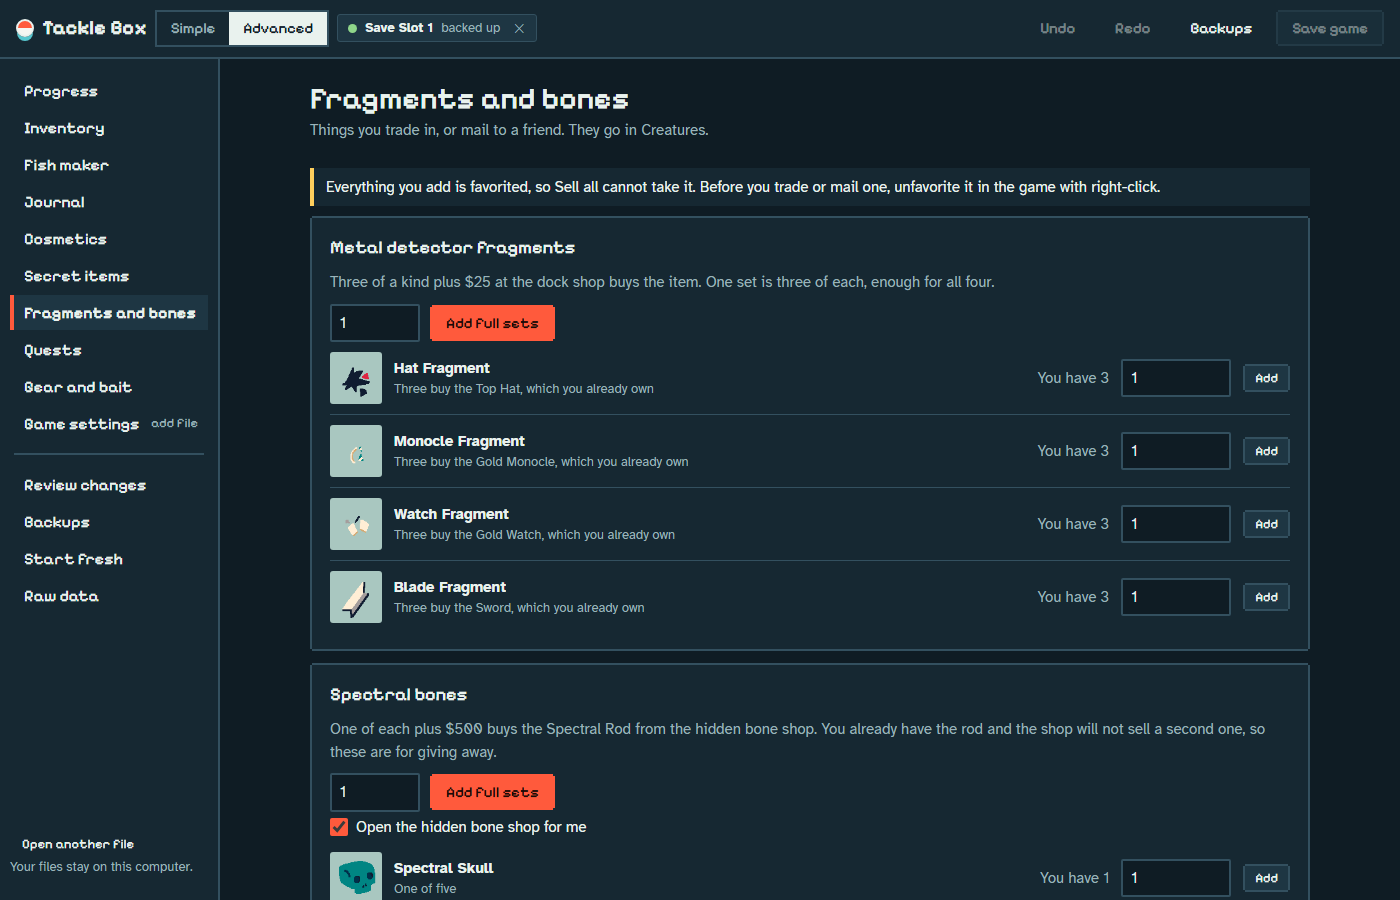
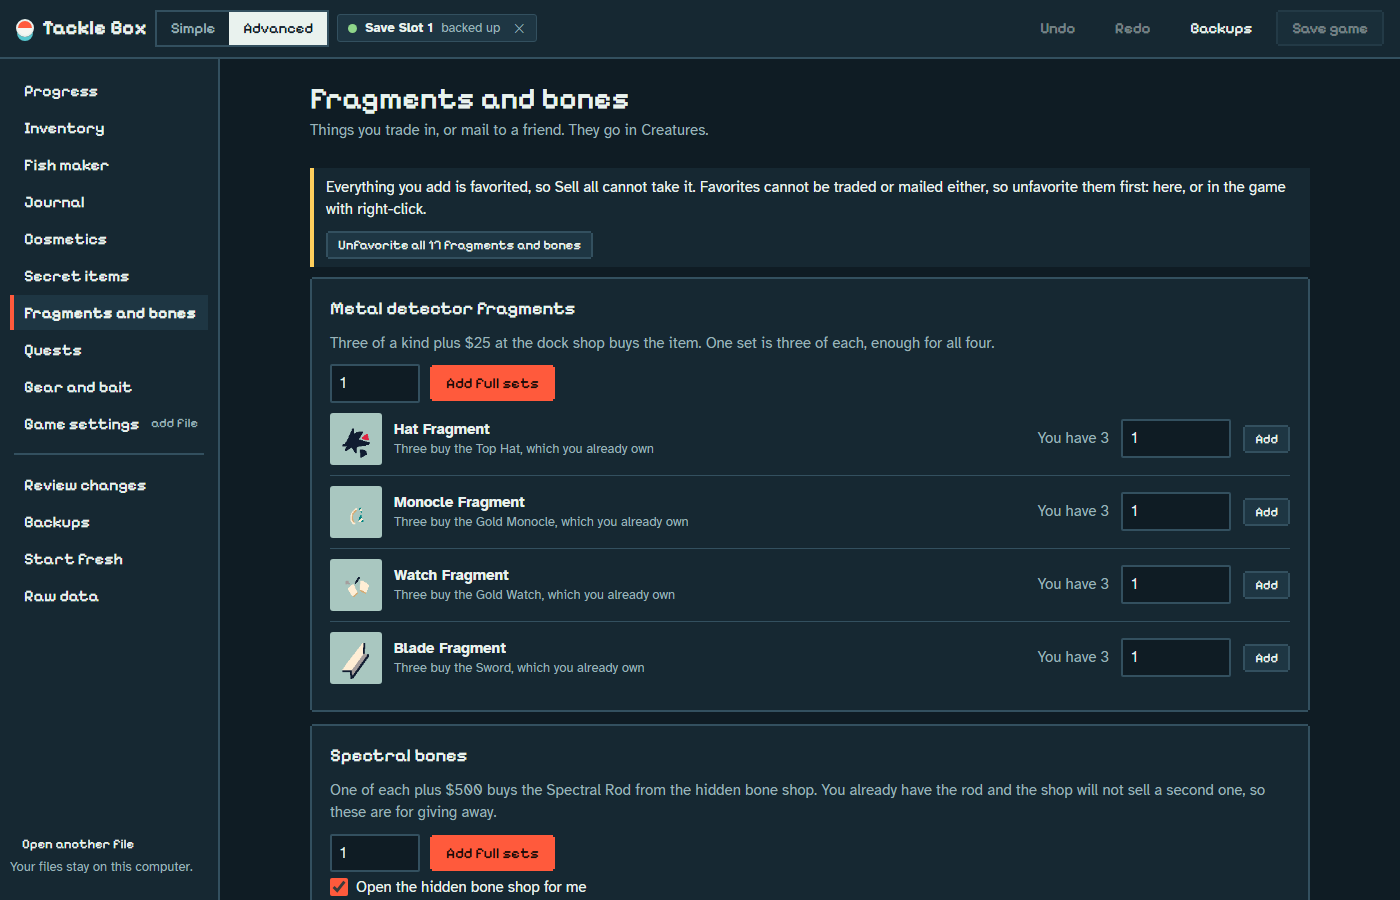
Add unfavorite buttons for one item, a selection, and fragments and bones

diff --git a/js/views/inventory.js b/js/views/inventory.js
@@ -10,7 +10,7 @@ function InventoryView() {
   const st = S.inv, root = f.root;
   const host = h('div', { class: 'gridhost' }), detail = h('aside', { class: 'detail px', 'aria-live': 'polite' }), bulk = h('div'), hot = h('div', { class: 'hotbar' }), counter = h('span', { class: 'muted small' });
   const edit = (label, fn, opts) => { commit(fk, label, fn, { render: false, ...opts }); drawAll(); };
-  const drawAll = () => { drawHot(); drawBulk(); drawGrid(); drawDetail(); };
+  const drawAll = () => { favs = favoriteSet(root); drawHot(); drawBulk(); drawGrid(); drawDetail(); };
 
   let favs = new Set();
   const list = () => tabItems(root, st.tab);
@@ -132,8 +132,8 @@ function InventoryView() {
     addKids(bulk, h('div', { class: 'bulk px' }, h('b', null, refs.length + ' selected'),
       !fishTab ? null : rarityPills(-1, (i) => edit('Set rarity', () => refs.forEach(r => { const n = findByRef(r); if (n) setNum(get(n, 'quality'), i); })), false),
       button('Move to front', () => move(refs, 0), 'small'), button('Move to end', () => move(refs, list().length), 'small'),
-      button('Favorite', () => edit('Favorite items', () => setFavorites(root, refs)), 'small'),
-      button('Select all shown', () => { shown().forEach(n => st.sel.add(refOf(n))); drawBulk(); drawGrid(); }, 'small'),
+      refs.some(r => !favs.has(r)) ? button('Favorite', () => edit('Favorite items', () => setFavorites(root, refs)), 'small') : null,
+      refs.some(r => favs.has(r)) ? button('Unfavorite', () => edit('Unfavorite items', () => clearFavorites(root, refs)), 'small') : null,
       button('Clear', () => { st.sel.clear(); drawBulk(); drawGrid(); }, 'small ghost'),
       button('Delete ' + refs.length, () => deleteItems(refs), 'small danger')));
   };
@@ -157,6 +157,8 @@ function InventoryView() {
     const name = h('input', { type: 'text', value: val(n, 'custom_name') || '', maxlength: LIMITS.nameLength, placeholder: 'No custom name', onchange: (e) => edit('Rename item', () => { ensure(n, 'custom_name', () => N.str('')).v = cleanName(e.target.value); }) });
     const price = data && !data.noSell ? 'Sells for $' + fmtNum(itemWorth(id, numOf(sizeN), q)) + '. ' : '';
     addKids(detail, head,
+      h('div', { class: 'field' }, h('span', { class: 'lbl' }, favs.has(ref) ? 'Favorite: cannot be sold, traded or mailed' : 'Not a favorite'),
+        h('div', null, button(favs.has(ref) ? 'Unfavorite' : 'Favorite', () => edit(favs.has(ref) ? 'Unfavorite item' : 'Favorite item', () => setFavorite(root, ref, !favs.has(ref))), 'small'))),
       data && data.noRename ? null : field('Custom name', name, 'The game adds “(edit)” after it.'),
       st.tab !== 'fish' ? null : h('div', { class: 'field' }, h('span', { class: 'lbl' }, 'Rarity'), rarityPills(q, (i) => edit('Set rarity', () => setNum(get(n, 'quality'), i)), false)),
       h('div', { class: 'two' },
@@ -167,7 +169,6 @@ function InventoryView() {
         button('First', () => move([ref], 0), 'small', { disabled: pos === 0 }), button('Earlier', () => move([ref], pos - 1), 'small', { disabled: pos === 0 }),
         button('Later', () => move([ref], pos + 2), 'small', { disabled: pos === last }), button('Last', () => move([ref], last + 1), 'small', { disabled: pos === last }))) : null,
       h('div', { class: 'field' }, h('span', { class: 'lbl' }, 'Hotbar'), h('div', { class: 'pills' }, [-1, 0, 1, 2, 3, 4].map(i => h('button', { type: 'button', class: 'pill' + (hotbarSlotOf(root, ref) === i ? ' on' : ''), 'aria-pressed': hotbarSlotOf(root, ref) === i ? 'true' : 'false', onclick: () => edit('Set hotbar slot', () => setHotbar(root, i, Number(ref))) }, i < 0 ? 'None' : i + 1)))),
-      checkbox('Favorite (cannot be sold by accident)', isFavorite(root, ref), v => edit('Toggle favorite', () => setFavorite(root, ref, v))),
       h('div', { class: 'row end' },
         button('Duplicate', () => edit('Duplicate item', () => {
           const c = clone(n), inv = invOf(root), r = newRef(refSet(root));
@@ -188,7 +189,7 @@ function InventoryView() {
   drawAll();
   return h('div', { class: 'page wide' }, pageHead('Inventory', 'Shown in the order the game shows it. Drag to rearrange.', button('Add item', () => addItemDialog(), 'primary'), button('Organize everything', () => edit('Organize inventory', () => organizeAll(root)), '', { title: 'Puts each kind of item together, in every tab' }), button('Make a fish', () => go('fish'))),
     h('div', { class: 'hotbar-wrap' }, h('span', { class: 'muted small' }, 'Hotbar'), hot), tabsHost,
-    h('div', { class: 'toolbar' }, search, counter, h('span', { class: 'spacer' }), h('span', { class: 'muted small' }, 'Sort this tab by'), sortSel,
+    h('div', { class: 'toolbar' }, search, counter, button('Select all', () => { shown().forEach(n => st.sel.add(refOf(n))); drawBulk(); drawGrid(); }, 'small', { title: 'Select everything shown, to favorite, unfavorite, move or delete it' }), h('span', { class: 'spacer' }), h('span', { class: 'muted small' }, 'Sort this tab by'), sortSel,
       checkbox('favorites first', false, v => { favFirst = v; }), button('Sort', () => edit('Sort ' + ITEM_TABS.find(t => t[0] === st.tab)[1].toLowerCase(), () => sortTab(root, st.tab, sortSel.value, favFirst)), 'small')),
     bulk, h('div', { class: 'split' }, host, detail));
 }

diff --git a/tests/run.js b/tests/run.js
@@ -9,7 +9,7 @@ const FILES = ['core/variant', 'core/nodes', 'core/diff', 'core/zip', 'data/item
 const ctx = vm.createContext({ console, TextEncoder, TextDecoder, atob, localStorage: { getItem: () => null, setItem() {} }, document: {}, window: {}, navigator: {} });
 for (const f of FILES) vm.runInContext(fs.readFileSync(path.join(ROOT, 'js', f + '.js'), 'utf8'), ctx, { filename: f });
 const E = (code) => vm.runInContext(code, ctx);
-const X = E('({ parseFile, serializeFile, clone, diff, get, val, N, readSaveFile, checkSave, unlockEverything, completion, startFresh, freshRoot, setTabOrder, moveInTab, sortTab, tabItems, addItems, removeRefs, planCollection, sizeName, SIZE_PRESETS, SIZE_NAMES, biggestNatural, atRatio, CATCHABLE, ALL_FISH, GAME_ITEMS, GAME_COSMETICS, UNLOCK_PARTS, SORTS, LIMITS, JOURNAL_SECTIONS, summarize, recordCatch, setHotbar, hotbarSlotOf, setFavorite, isFavorite, favoriteSet, hasFullCollection, organizeAll, ITEM_ORDER, FRAGMENTS, BONES, METAL_FINDS, COIN_BAG, CHEST, FIND_ORDER, OWN_LIMIT, KEEPER_TOOLS, KEEPER_PROPS, countItems, lacking, fragmentSet, boneSet, findSet, clearInventory, bonesOpen, SECRET_COSMETICS, SECRET_ITEMS, UNSOLD_ITEMS, ITEM_WARNINGS, FINDABLE_SECRETS, HIDDEN_COSMETICS, CONTRIBUTOR_TITLES, maxQuests, questsDone, questBoard, tutorialDone, FULL_COLLECTION, missingFish, orderChanged, makeZip, sameBytes, hashBytes, itemTab, USABLE_COSMETICS })');
+const X = E('({ parseFile, serializeFile, clone, diff, get, val, N, readSaveFile, checkSave, unlockEverything, completion, startFresh, freshRoot, setTabOrder, moveInTab, sortTab, tabItems, addItems, removeRefs, planCollection, sizeName, SIZE_PRESETS, SIZE_NAMES, biggestNatural, atRatio, CATCHABLE, ALL_FISH, GAME_ITEMS, GAME_COSMETICS, UNLOCK_PARTS, SORTS, LIMITS, JOURNAL_SECTIONS, summarize, recordCatch, setHotbar, hotbarSlotOf, setFavorite, isFavorite, favoriteSet, hasFullCollection, organizeAll, ITEM_ORDER, FRAGMENTS, BONES, METAL_FINDS, COIN_BAG, CHEST, FIND_ORDER, OWN_LIMIT, KEEPER_TOOLS, KEEPER_PROPS, countItems, lacking, fragmentSet, boneSet, findSet, clearInventory, clearFavorites, bonesOpen, SECRET_COSMETICS, SECRET_ITEMS, UNSOLD_ITEMS, ITEM_WARNINGS, FINDABLE_SECRETS, HIDDEN_COSMETICS, CONTRIBUTOR_TITLES, maxQuests, questsDone, questBoard, tutorialDone, FULL_COLLECTION, missingFish, orderChanged, makeZip, sameBytes, hashBytes, itemTab, USABLE_COSMETICS })');
 
 const same = (a, b, m) => assert.deepStrictEqual(JSON.parse(JSON.stringify([...a])), JSON.parse(JSON.stringify([...b])), m);
 let passed = 0;
@@ -265,6 +265,11 @@ test('wearing every accessory is allowed and reads back', () => {
   X.get(f.root, 'cosmetics_equipped', 'accessory').v = ids.map(id => X.N.str(id));
   same(stops(f), []); assert.strictEqual(X.checkSave(f).issues.filter(i => /accessories are worn/.test(i.text)).length, 1);
   same(X.val(X.parseFile(X.serializeFile(f.root, f.tail)).root, 'cosmetics_equipped', 'accessory').map(n => n.v), ids);
+});
+test('unfavoriting removes only what was asked', () => {
+  const r = X.freshRoot(), made = X.addItems(r, [{ id: 'guitar' }, { id: 'tambourine' }, { id: 'ringbox' }]).map(n => String(X.val(n, 'ref')));
+  X.clearFavorites(r, made.slice(0, 2)); same([...X.favoriteSet(r)], [made[2]]);
+  X.clearFavorites(r, ['999']); assert.strictEqual(X.favoriteSet(r).size, 1);
 });
 test('hotbar and favorites follow removal', () => {
   const r = X.freshRoot(), [n] = X.addItems(r, [{ id: 'guitar' }]), ref = X.val(n, 'ref');

diff --git a/js/views/collectibles.js b/js/views/collectibles.js
@@ -21,9 +21,12 @@ function CollectiblesView() {
       edit(label, () => make(k), 'Added ' + plural(k, 'set') + '.');
     }, 'primary'));
   };
+  const favs = favoriteSet(root), tradable = new Set([...FRAGMENTS.map(x => x.id), ...BONES]);
+  const hearted = invOf(root).v.filter(n => tradable.has(val(n, 'id')) && favs.has(String(val(n, 'ref')))).map(n => String(val(n, 'ref')));
   const open = bonesOpen(root), hasRod = countItems(root, 'fishing_rod_skeleton') > 0;
   return h('div', { class: 'page' }, pageHead('Fragments and bones', 'Things you trade in, or mail to a friend. They go in Creatures.'),
-    h('p', { class: 'note' }, 'Everything you add is favorited, so Sell all cannot take it. Before you trade or mail one, unfavorite it in the game with right-click.'),
+    h('div', { class: 'note' }, h('p', null, 'Everything you add is favorited, so Sell all cannot take it. Favorites cannot be traded or mailed either, so unfavorite them first: here, or in the game with right-click.'),
+      hearted.length ? button('Unfavorite all ' + plural(hearted.length, 'fragment and bone', 'fragments and bones'), () => edit('Unfavorite fragments and bones', () => clearFavorites(root, hearted), 'Unfavorited. Sell all can sell them now.'), 'small') : null),
     card('Metal detector fragments', h('p', { class: 'muted' }, 'Three of a kind plus $25 at the dock shop buys the item. One set is three of each, enough for all four.'),
       sets('Add full sets', k => addItems(root, fragmentSet(k))),
       FRAGMENTS.map(x => row(x.id, 'Three buy the ' + nameOf(x.gives) + (val(root, 'cosmetics_unlocked').some(n => n.v === x.gives) ? ', which you already own' : '')))),

diff --git a/js/app/unlock-dialog.js b/js/app/unlock-dialog.js
@@ -20,7 +20,7 @@ function askAndUnlock(parts) {
     mine.length ? checkbox(h('span', null, h('b', null, 'Clear my inventory first'), note('Start with an empty bag, then add everything. Your outfit, money, journal and the rest stay.')), o.clear, v => { o.clear = v; draw(); }) : null,
     o.clear ? h('p', { class: 'issue stop' }, 'This removes all ' + plural(mine.length, 'item') + (extra ? ', including ' + extra : '') + '. That means keepsakes and fish you caught too. You can undo it, and your original stays in Backups.') : null,
     parts.fish && owned && !o.clear ? checkbox(h('span', null, h('b', null, 'Add another 936 fish'), note('This save already has them all.')), o.another, v => { o.another = v; }) : null,
-    h('p', { class: 'muted small' }, 'Everything added is favorited, so it cannot be sold by accident, not even with Sell all. To sell, trade or mail something, unfavorite it in the game with right-click.'),
+    h('p', { class: 'muted small' }, 'Everything added is favorited, so it cannot be sold by accident, not even with Sell all. To sell, trade or mail something, unfavorite it in Inventory here, or in the game with right-click.'),
     h('div', { class: 'row wrap end' }, button('Cancel', () => m.close(), 'ghost'),
       button(o.clear ? 'Clear and unlock' : 'Unlock everything', () => {
         m.close();

diff --git a/js/app/actions.js b/js/app/actions.js
@@ -41,6 +41,10 @@ function setFavorites(root, refs) {
   const a = ensure(root, 'locked_refs', () => N.arr()), have = favoriteSet(root);
   for (const ref of refs) if (!have.has(String(ref))) { have.add(String(ref)); a.v.push(N.int(Number(ref))); }
 }
+function clearFavorites(root, refs) {
+  const a = get(root, 'locked_refs'), gone = new Set(refs.map(String));
+  if (a) a.v = a.v.filter(n => !gone.has(String(n.v)));
+}
 function setFavorite(root, ref, on) {
   const a = ensure(root, 'locked_refs', () => N.arr());
   a.v = a.v.filter(x => String(x.v) !== String(ref));

diff --git a/README.md b/README.md
@@ -87,7 +87,7 @@ Backups live in your browser, so clearing site data removes them. Download the o
 - **Placing the Canvas Prop can get you kicked.** Servers that run Cove kick anyone who places a canvas unless the owner allows it. Use it in your own lobby.
 - **Do not mail unused items.** In the game's code, mailing one turns it into a salmon.
 - The game lets you favorite about 100 items by hand. It keeps more if they come from a save, but you cannot add others in the game until you are back to 100.
-- **Everything the tool adds is favorited.** To sell, trade or mail one of those items, unfavorite it in the game with right-click.
+- **Everything the tool adds is favorited.** To sell, trade or mail one of those items, unfavorite it in the Inventory page, or in the game with right-click.
 - Contributor titles show as “Scout” on accounts that are not contributors, so Unlock everything leaves them out.
 
 ## Privacy
